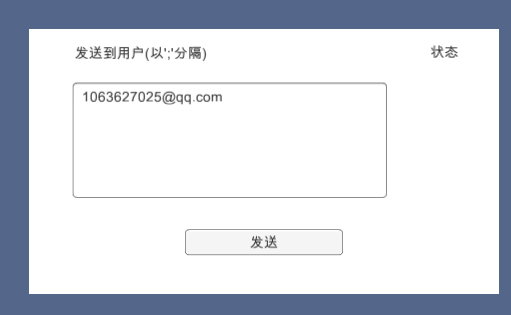
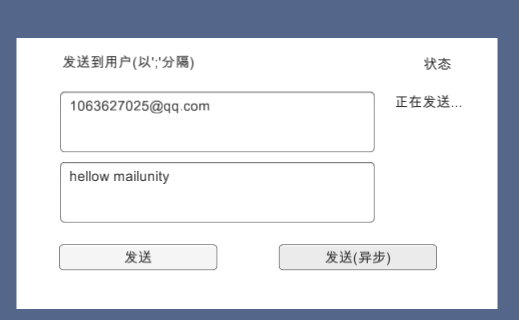
添加异步发送功能

diff --git a/Core/Utility/MailUtility.cs b/Core/Utility/MailUtility.cs
@@ -70,9 +70,72 @@ namespace MailUnity
                 sender.Credentials = new NetworkCredential(defultConfig.User, defultConfig.Password);// "NuGets@163.com", "vzihlbquwnriqlht"
                 sender.EnableSsl = false;
                 message.Body += e.ToString();
-                Console.WriteLine(e);
                 sender.Send(message);
             }
+        }
+
+        /// <summary>
+        /// 发送邮件
+        /// </summary>
+        /// <param name="info">接收人信息 MailUnity.MailInfo </param>
+        /// <param name="mailConfig">发件邮箱配置</param>
+        /// <param name="message">默认为null。 System.Net.Mail.MailMessage </param>
+        /// <param name="isSingleSend">是否群发单显。当邮件接收人为多个时，可选择该模式，即可对多个收件人分别发送，收件方不会知道这封邮件有多个收件人</param>
+        public static IAsyncMail SendAsync(MailConfig mailConfig, MailInfo info)
+        {
+            var message = new MailMessage();
+
+            if (!string.IsNullOrEmpty(info.Replay)) message.ReplyTo = new MailAddress(info.Replay);
+
+            var cc = string.Join(",", info.SubReceivers.ToArray());
+            if (!string.IsNullOrEmpty(cc)) message.CC.Add(cc);
+
+            var to = string.Join(",", info.Receivers.ToArray());
+            if (!string.IsNullOrEmpty(to)) message.To.Add(to);
+
+            if (!string.IsNullOrEmpty(info.Subject)) message.Subject = info.Subject;
+
+            if (!string.IsNullOrEmpty(info.Body)) message.Body = info.Body;
+
+            foreach (var item in info.Files)
+            {
+                message.Attachments.Add(item);
+            }
+
+            return SmtpClientSendAsync(mailConfig, message);
+        }
+
+        private static IAsyncMail SmtpClientSendAsync(MailConfig mailConfig, MailMessage message)
+        {
+            var asyncHandle = new AsyncMail();
+            var sender = new SmtpClient();
+            sender.UseDefaultCredentials = false;
+            sender.SendCompleted += asyncHandle.Complete;
+            sender.DeliveryMethod = SmtpDeliveryMethod.Network;
+            try
+            {
+                message.IsBodyHtml = mailConfig.IsHtml;
+                message.From = new MailAddress(mailConfig.From, mailConfig.DisplayName);
+                sender.Host = mailConfig.Host;
+                sender.Port = mailConfig.Port;
+                sender.Credentials = new NetworkCredential(mailConfig.User, mailConfig.Password);
+                sender.EnableSsl = mailConfig.EnableSsl;
+                sender.SendAsync(message, asyncHandle);
+            }
+            catch (Exception e)
+            {
+                var defultConfig = MailConfig.Defult;
+                //发送异常一般为发送邮箱配置有误，这里提供一个默认发件邮箱。
+                message.From = new MailAddress(defultConfig.From, defultConfig.DisplayName);// "NuGets@163.com", "Mafly"
+                message.IsBodyHtml = true;
+                sender.Host = defultConfig.Host; //"smtp.163.com";
+                sender.Port = defultConfig.Port;// 25;
+                sender.Credentials = new NetworkCredential(defultConfig.User, defultConfig.Password);// "NuGets@163.com", "vzihlbquwnriqlht"
+                sender.EnableSsl = false;
+                message.Body += e.ToString();
+                sender.SendAsync(message, asyncHandle);
+            }
+            return asyncHandle;
         }
     }
 

diff --git a/Demo/MailSendPanel.cs b/Demo/MailSendPanel.cs
@@ -13,31 +13,60 @@ using System.Collections.Generic;
 using System;
 using MailUnity;
 
-public class MailSendPanel : MonoBehaviour {
+public class MailSendPanel : MonoBehaviour
+{
     [SerializeField]
     private InputField m_userNames;
     [SerializeField]
     private Button m_send;
+    [SerializeField]
+    private Button m_sendAsync;
+    [SerializeField]
+    private InputField m_text;
+    [SerializeField]
+    private Text m_state;
     private Mail mail;
     private string[] users;
     private string fileTest;
+    private string state;
+    private bool isStateChanged;
+    
     private void Awake()
     {
-        m_userNames.onEndEdit.AddListener(OnEndEditNames);
         m_send.onClick.AddListener(OnSend);
+        m_sendAsync.onClick.AddListener(OnSendAsync);
         mail = new MailUnity.Mail();
         fileTest = Application.dataPath + "/MailUnity/Demo/testFile.txt";
     }
 
     private void OnSend()
     {
-        if (users == null) return;
-        mail.AddReceivers("Runtime", users).AddFiles(fileTest).Send("Hellow Mail") ;
+        users = m_userNames.text.Split(new char[] { ';', '；', ';' });
+        if (users == null || users.Length == 0 || string.IsNullOrEmpty(m_text.text)) return;
+        OnStateChanged("正在发送...");
+        mail.AddReceivers("Runtime", users).AddFiles(fileTest).Send(m_text.text);
+        OnStateChanged("发送成功");
     }
-
-    private void OnEndEditNames(string arg0)
+    private void OnSendAsync()
     {
-        users = arg0.Split(new char[] { ';','；',';'});
+        users = m_userNames.text.Split(new char[] { ';', '；', ';' });
+        if (users == null || users.Length == 0 || string.IsNullOrEmpty(m_text.text)) return;
+        OnStateChanged("正在发送...");
+        var async = mail.AddReceivers("Runtime", users).AddFiles(fileTest).SendAsync(m_text.text);
+        async.onComplete = (x) => { OnStateChanged( "发送成功"); };
+    }
+    private void Update()
+    {
+        if(isStateChanged)
+        {
+            isStateChanged = false;
+            m_state.text = state;
+        }
+    }
+    private void OnStateChanged(string newState)
+    {
+        state = newState;
+        isStateChanged = true;
     }
 
 }

diff --git a/Core/Mail.cs b/Core/Mail.cs
@@ -19,11 +19,11 @@ namespace MailUnity
         {
             get
             {
-                if(string.IsNullOrEmpty(info))
+                if (string.IsNullOrEmpty(info))
                 {
                     info = "_defult";
                 }
-                if(!_mainInfoDic.ContainsKey(info))
+                if (!_mainInfoDic.ContainsKey(info))
                 {
                     _mainInfoDic[info] = new MailInfo();
                 }
@@ -98,21 +98,31 @@ namespace MailUnity
             return this;
         }
 
-        public IResult Send(string body)
+        public void Send(string body)
         {
             ForEachInfo((info) =>
             {
                 info.Body = body;
                 MailUtility.Send(mailConfig, info);
             });
-            
-            return null;
+        }
+        public IAsyncMail SendAsync(string body)
+        {
+            var mail = new AsyncMail();
+            ForEachInfo((info) =>
+            {
+                info.Body = body;
+                var asyn = MailUtility.SendAsync(mailConfig, info);
+                mail.RecordSubMail(asyn);
+                asyn.onComplete = mail.OnSubMailComplete;
+            });
+            return mail;
         }
         private void ForEachInfo(Action<MailInfo> action)
         {
             foreach (var item in _mainInfoDic)
             {
-                if(item.Value != null)
+                if (item.Value != null)
                 {
                     action.Invoke(item.Value);
                 }

diff --git a/Core/AsyncMail.cs b/Core/AsyncMail.cs
@@ -1,0 +1,57 @@
+using UnityEngine;
+using UnityEngine.UI;
+using UnityEngine.Audio;
+using UnityEngine.Events;
+using UnityEngine.Sprites;
+using UnityEngine.Scripting;
+using UnityEngine.Assertions;
+using UnityEngine.EventSystems;
+using UnityEngine.Assertions.Must;
+using UnityEngine.Assertions.Comparers;
+using System.Collections;
+using System.Collections.Generic;
+using System;
+using System.ComponentModel;
+
+namespace MailUnity
+{
+    public class AsyncMail : IAsyncMail
+    {
+        private List<IAsyncMail> subMails = new List<IAsyncMail>();
+
+        public UnityAction<IAsyncMail> onComplete { get; set; }
+
+        public void Complete(object sender, AsyncCompletedEventArgs e)
+        {
+            if(e.UserState == this)
+            {
+                if(onComplete != null)
+                {
+                    onComplete.Invoke(this);
+                }
+            }
+        }
+        public void RecordSubMail(IAsyncMail mail)
+        {
+            if(!subMails.Contains(mail))
+            {
+                subMails.Add(mail);
+            }
+        }
+        public void OnSubMailComplete(IAsyncMail mail)
+        {
+            if(subMails.Contains(mail))
+            {
+                subMails.Remove(mail);
+            }
+            if(subMails.Count == 0)
+            {
+                if(onComplete != null)
+                {
+                    onComplete.Invoke(this);
+                }
+            }
+        }
+    }
+}
+

diff --git a/Core/Interface/IMail.cs b/Core/Interface/IMail.cs
@@ -21,6 +21,7 @@ namespace MailUnity
         IMail AddSubject(string subject);//添加主题
         IMail AddFiles(params string[] files);//添加文件
         IMail AddAttachment(params Attachment[] files);//添加文件
-        IResult Send(string body);
+        void Send(string body);
+        IAsyncMail SendAsync(string body);
     }
 }

diff --git a/Core/Interface/IAsyncMail.cs b/Core/Interface/IAsyncMail.cs
@@ -13,10 +13,8 @@ using System.Collections.Generic;
 
 namespace MailUnity
 {
-    public interface IResult
+    public interface IAsyncMail
     {
-        bool isSend { get; }
-        bool isErr { get; }
-        string errInfo { get; }
+        UnityAction<IAsyncMail> onComplete { get; set; }
     }
 }

diff --git a/README.md b/README.md
@@ -11,7 +11,8 @@ learn from [Mail](https://github.com/mafly/Mail)
         IMail AddSubject(string subject);//添加主题
         IMail AddFiles(params string[] files);//添加文件
         IMail AddAttachment(params Attachment[] files);//添加文件
-        IResult Send(string body);
+        void Send(string body);
+        IAsyncMail SendAsync(string body);
     }
 ```
 ### and a simple demo
